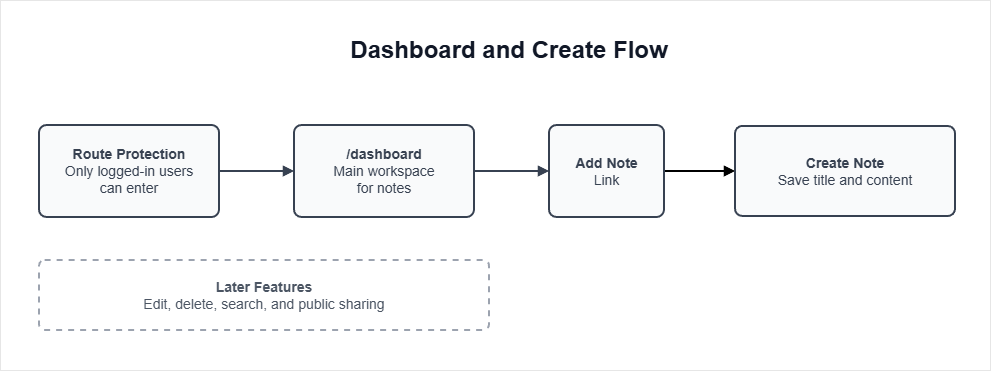
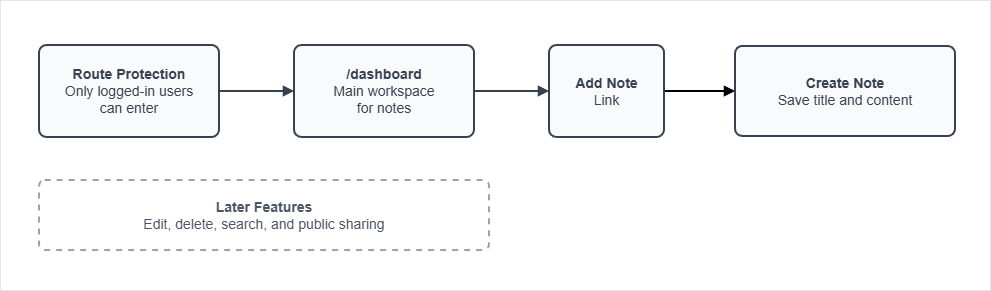
Update project docs to include public-sharing feature

diff --git a/docs/065-Software-Engineering/009-Web-Development/000-Projects/041-Probably-Important/README.md b/docs/065-Software-Engineering/009-Web-Development/000-Projects/041-Probably-Important/README.md
@@ -675,7 +675,7 @@ http://localhost:3030
 
 After the initial route structure is in place, the next step is to connect the application to the real authentication and database layer.
 
-### Authentication and Database Access
+### Auth and Database Access
 
 After the initial route structure is in place, the next step is to connect the application to the real authentication and database layer.
 
@@ -878,7 +878,7 @@ After the code is generated, test the behavior in a private browser window.
 </div>
 
 
-### Notes Dashboard and Create Flow
+### Dashboard and Create Flow
 
 Once route protection is in place, the dashboard can serve as the main workspace for authenticated users. This step introduces the application header, the **Add Note** navigation link, and the initial note creation workflow.
 
@@ -1159,11 +1159,19 @@ For this setup, I added the `PostToolUse` hook in the `settings.json` which will
 }
 ```
 
-Restart Claude Code so it reloads the hook configuration. After that, any time Claude edits or writes files, it will automatically run the formatter on the project.
+**UPDATE:** If you are using WSL and you installed Bun there, you may need to use the WSL path for Bun in the hook command. For example:
 
-You can test the hook by asking Claude to make a code change that does not follow the formatting rules. For example, you can ask it to write a new file with double quotes instead of single quotes. After the file is written, the hook should run and reformat the code to use single quotes.
+```json
+"command": "cd \"${CLAUDE_PROJECT_DIR}\" && /home/joseeden/.bun/bin/bun run format 2>/dev/null || true"
+```
 
-For that, you can proceed to adding the public sharing feature, which will require new code to be generated.
+See [Hooks not working](#hooks-not-working) for more details.
+
+Restart Claude Code so it reloads the hook configuration. After that, any time Claude creates or modifies files, the formatter will run automatically.
+
+To verify the hook is working, ask Claude to make a code change that does not follow the project's formatting rules. For example, have it create a file that uses double quotes instead of single quotes. Once the file is written, the hook should automatically reformat the code.
+
+A simple way to test this is by continuing with the public sharing feature in the next step, which requires Claude to generate new code files.
 
 
 ### Public Sharing
@@ -1172,9 +1180,11 @@ After notes can be created, edited, and deleted, the next step is to let users s
 
 This step should allow the note owner to turn sharing on or off. Public visitors should only be able to view shared notes, not edit or delete them.
 
+**Note:** The prompt mentioned using double quotes for string literals in the generated code. This is to test that the formatter hook (from previous steps) is working correctly, since it should automatically convert double quotes to single quotes after the code is generated.
+
 Prompt:
 
-> Add public note sharing.
+> /plan Add public note sharing.
 > 
 > Allow the owner of a note to turn public sharing on or off.
 > 
@@ -1210,12 +1220,54 @@ Review the generated code, then once approved, validate public sharing:
 10. Reload the public share link.
 11. Confirm that the link no longer works and shows a not found page.
 
+<div class='img-center'>
+
+![](/gif/docs/21062026-probab-impt-8.gif)
+
+</div>
+
 
 ### Search
 
 
 
 ### Final Polish
+
+
+
+## Troubleshooting 
+
+### Hooks not working 
+
+If you used the `PostToolUse` hook to run a hook (e.g., formatter) after every edit or write, but it does not seem to be working, below are some places to check.
+
+**Note:** The example here uses bun and `oxfmt` as the formatter, but the same principles apply to any hook command.
+
+1. Confirmed the `CLAUDE_PROJECT_DIR` variable is set correctly.
+
+    This isn't actually checked in the shell, since it's it's only injected by Claude Code's hook runner. It is not available in a regular shell session.
+
+    For this, you can prompt Claude to print the value of `CLAUDE_PROJECT_DIR` in the hook command. For example, you can add a temporary hook that runs `echo $CLAUDE_PROJECT_DIR` after every edit or write.
+
+2. Check the bun path in the hook command.
+
+    If you installed Bun in WSL, the path to the Bun binary may be different than the default `/usr/bin/env bun`. Run the following command:
+
+    ```bash
+    which bun 
+    ```
+
+    Sample output:
+
+    ```bash
+    /home/joseeden/.bun/bin/bun 
+    ```
+
+In my case, I had to use the full path to the Bun binary in the hook command:
+
+```json
+"command": "cd \"${CLAUDE_PROJECT_DIR}\" && /home/joseeden/.bun/bin/bun run format 2>/dev/null || true"
+```
 
 
 ## Resources 